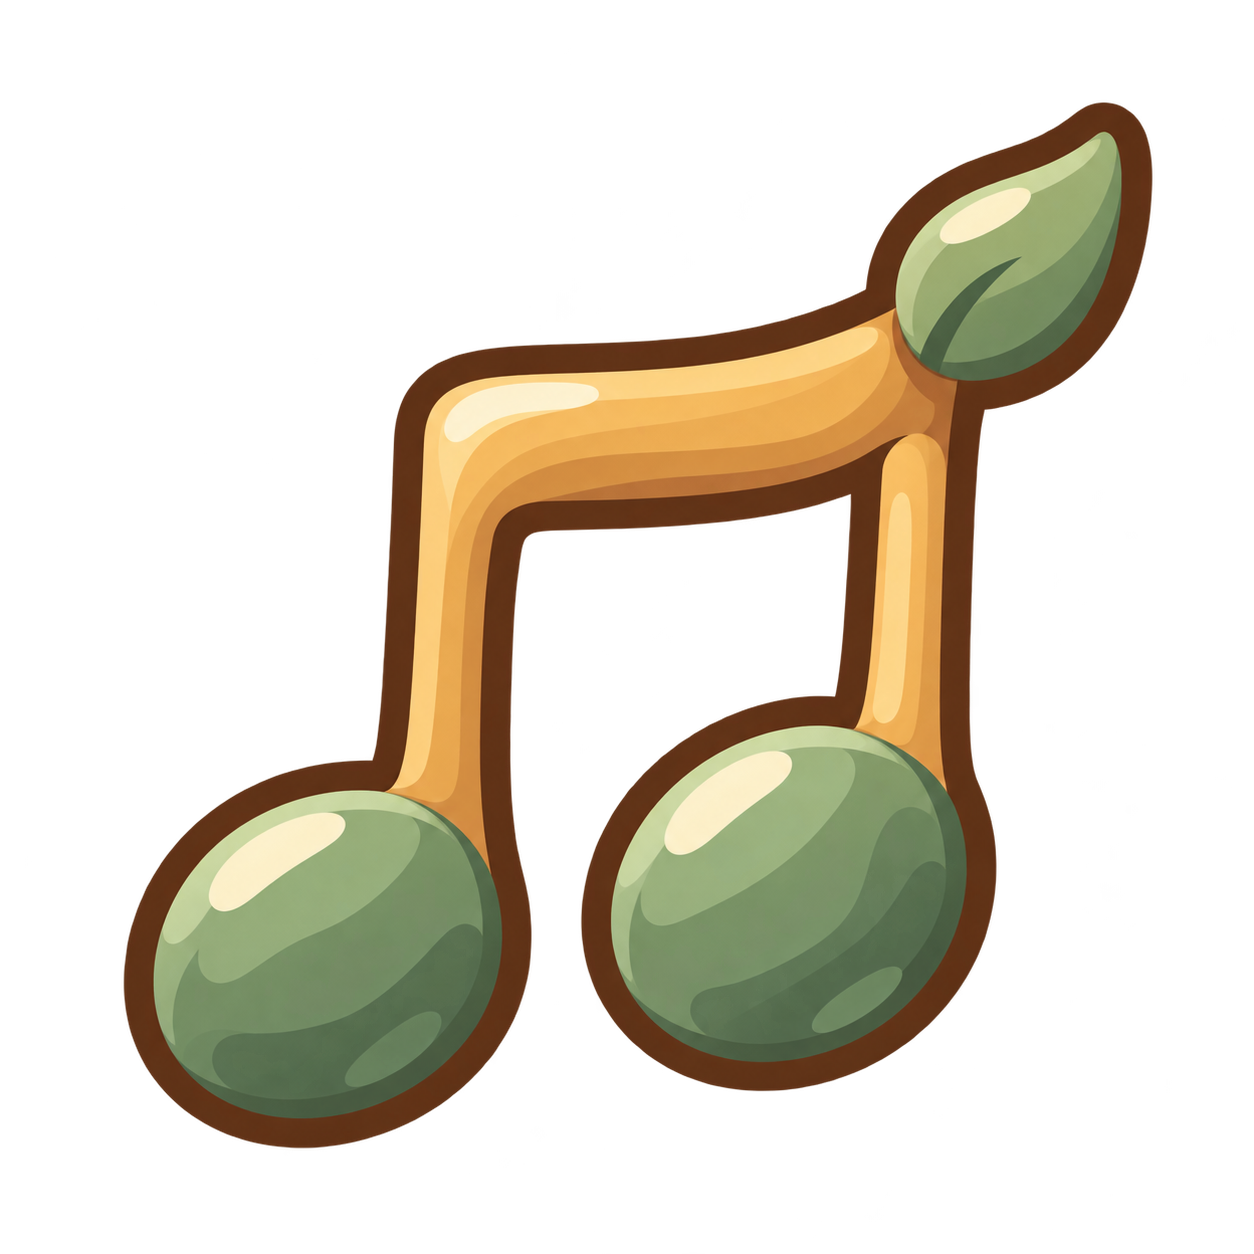
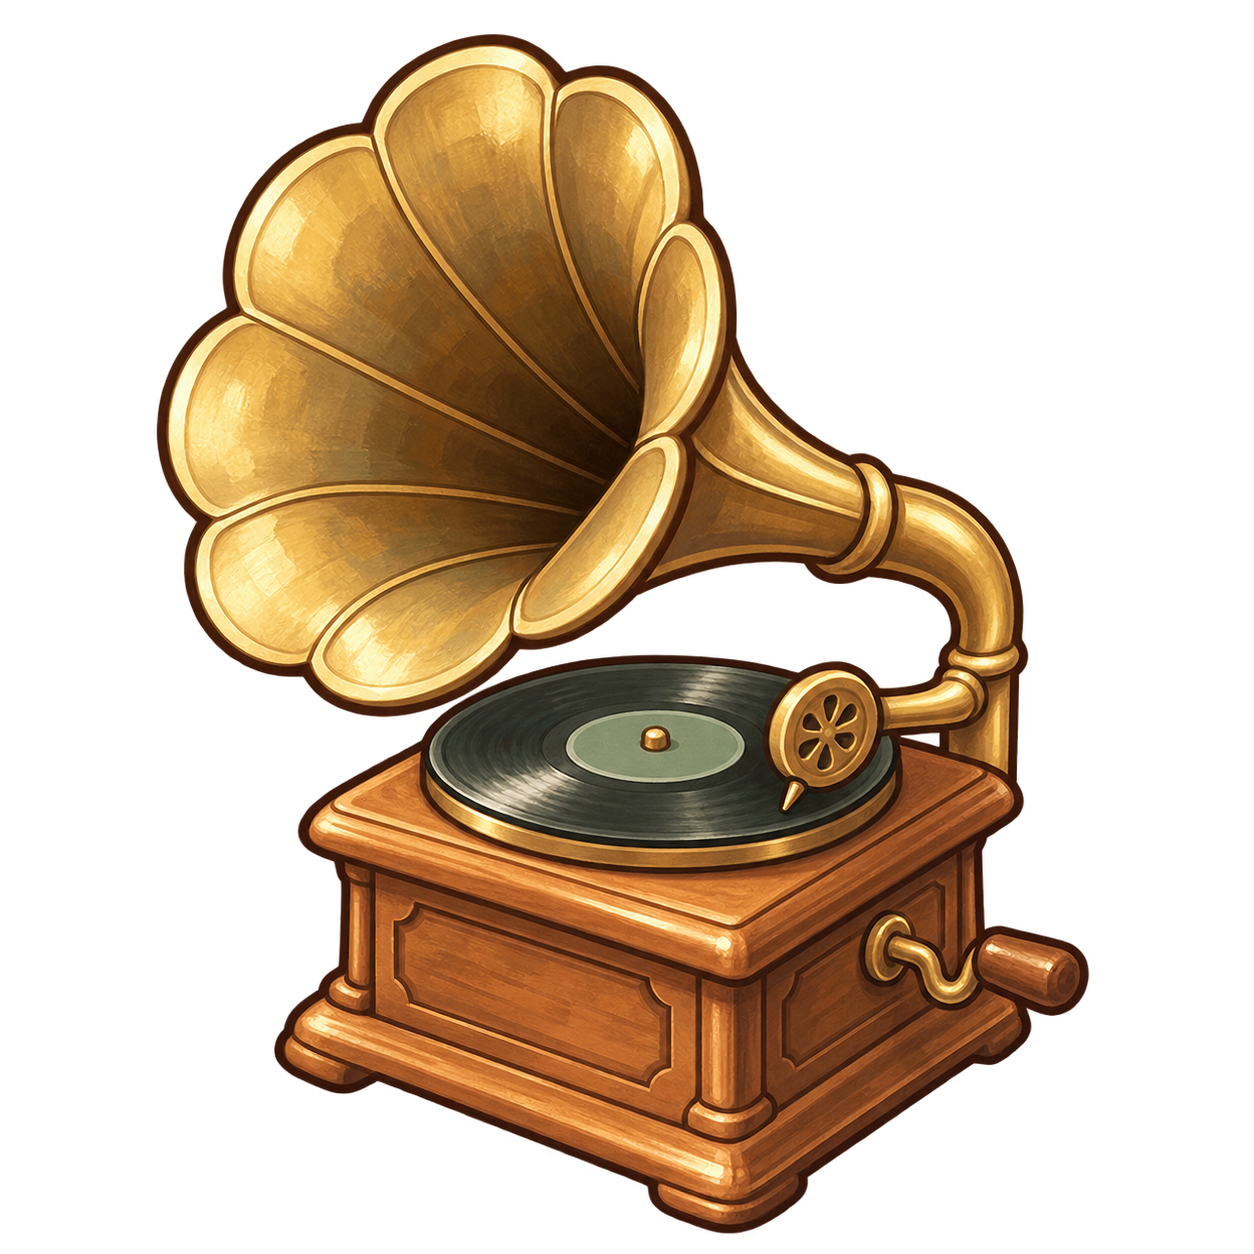
fix: align toolbar and balance gramophone (#332)
* fix: replace Music toolbar note with gramophone

* docs: link gramophone toolbar review candidate

* fix: align toolbar icons and balance gramophone scale

* fix: inset mobile toolbar artwork within buttons

* fix: match mobile gramophone to adjacent artwork

diff --git a/docs/design/music-catalog-config.md b/docs/design/music-catalog-config.md
@@ -290,10 +290,72 @@ The user requests a designed Music image alongside the existing brush, chef,
 pause and gear. An original transparent sage/wood musical-note raster reuses
 those assets as style references; prompt and exact source hash are preserved
 with the existing HUD provenance. The existing HUD texture owner bounds the
-retained texture to320px and crops alpha bounds; the44px native action, tooltip,
+retained texture to 320px and crops alpha bounds; the44px native action, tooltip,
 accessibility name, focus, popup ownership and existing press motion remain.
 Responsive arrangements keep the same Music hit rectangles and render the
 picture inside them. No player-state/save/audio path changes. The generated
 raster and prompt are recoverable; layered GUI/vector authoring is unavailable
 for this generated source and no new Golden approval is claimed. Actual native
 normal-scale toolbar inspection and focused responsive checks remain pending.
+# Gramophone toolbar candidate (2026-10-16)
+
+The user rejected the paired musical-note Music entry and explicitly requested a
+gramophone. This scoped candidate replaces only the toolbar raster and its alpha
+crop, using an original brass-horn, vinyl-record and wooden-cabinet illustration.
+The inspected existing Decorate/Settings art informed the style. The successful
+built-in generation used a text prompt, retained beside the unchanged generated
+RGBA source; it is not a layered editable illustration or a new Golden Reference.
+
+The existing native Music button, tooltip, accessible name, input, focus/press
+feedback, retained texture loading and panel behavior remain. Source
+resolution stays 1254x1254, and the same loader limits the cached texture to 320px;
+there is no new frame callback, animation, resource owner or invalidation path.
+This is an intentional appearance change awaiting the user's actual game-pixel
+acceptance. Desktop/mobile-size paired fixture captures and narrow toolbar checks
+are recorded in the candidate PR; native emulated touch does not qualify a phone
+browser, performance or release. Hat/steam reference work remains separate.
+
+The user subsequently requested balanced icon proportions, vertical centering
+and equal spacing across the toolbar. The revised candidate keeps the same
+generated gramophone PNG and tight alpha crop. It draws the gramophone at44px
+height on the desktop rail,30px on phone layouts, and uses
+the same retained material treatment as Decorate/Staff/Settings. This replaces
+the earlier32px square fit and stronger lightening that reduced its visible
+width and weight. It adds no texture, material variant or frame callback.
+
+Desktop actions share a painted centerline and equal18px gaps (8px at the
+compact breakpoint), including both sides of Pause and Music-to-Decorate. Phone
+actions use equal44x44 native cells and6px gaps; wrapped rows retain aligned
+columns. Original asset aspects,44px minimum targets, focus order and actions
+remain. Actual pixels and existing responsive/input suites must confirm this
+candidate; numeric geometry alone does not establish visual acceptance.
+
+PR330 at09bbd6d4 owns Settings UID footer/clipboard changes in
+`cafe_compact_ui.gd`, `cafe_cloud_settings.gd` and the Web adapter. This candidate
+changes the separate `cafe_hud.gd` layout and its existing layout tests. The
+shared Roadmap receives only the scoped status update; no PR330 runtime delta
+is copied, changed or claimed integrated.
+
+Mobile button-padding refinement: the user requested a little more space
+between artwork and button edges. Phone artwork now fits30px for brush/gear,
+30px high for the chef and gramophone. The latest user request explicitly
+aligns the gramophone with the two adjacent illustrations, not just their frames.
+Every illustrated action now has at least7px internal clearance while retaining
+native aspect,44px hit cells,6px gaps and the existing centerline. The already
+inset Pause glyph and wallet coin retain their spacing. The desktop path and
+its44px gramophone remain unchanged; actual paired desktop pixels verify this.
+
+The actual390x844 rendered button comparison isolates foreground art against
+the same buttons with only their artwork hidden. At a summed RGB-difference
+threshold of12, visible gramophone/brush/chef bounds are23x30,30x25 and22x30
+pixels, with529,536 and475 visible pixels. Gramophone contrast-weighted area
+is157.110 versus161.237 for the brush; the cream chef is naturally lighter.
+These are descriptive comparison measurements, not new numeric art standards
+or user acceptance. Equal44px frames,6px gaps and vertical centers remain.
+
+A separate302e77d baseline versus f262331 candidate capture used the identical
+original harness with verbose logging. Both exit0 with no ObjectDB warning;
+the retained nonverbose candidate capture still reports the intermittent exit
+warning. That one matched pair does not establish either a pre-existing leak
+or a PR332-introduced leak. No production teardown change is made without
+candidate-cause evidence; the diagnostic limit remains explicit.

diff --git a/docs/roadmap.md b/docs/roadmap.md
@@ -13,6 +13,8 @@
 
 ### Current state and ownership
 
+Music toolbar gramophone (0.1.11, 2026-10-16), [Draft PR332](https://github.com/yiyousiow000814/little-leaf/pull/332): replaces the rejected note with an original gramophone. The latest mobile fit matches the adjacent brush/chef artwork, preserving equal44px cells,6px gaps and centers; native input checks pass and fresh desktop PNGs remain byte-identical. Earlier f262331 mobile checks (4,240) and036c23d HUD layout (574) /icon-scale (68) checks retain their exact-source scope. A matched verbose pre-PR/candidate teardown pair does not reproduce the intermittent ObjectDB exit warning, so its cause remains unproved. User visual acceptance, exact new-head CI and release remain pending. See [the Music design record](design/music-catalog-config.md#gramophone-toolbar-candidate-2026-10-16). No merge, tag or deployment.
+
 Cloud-save scheduling candidate (0.1.11, 2026-10-16): the user reports slow cloud saves. From deployed-source base `6014dce830323e8bc26858cee5498285eeca53a2`, the scoped candidate changes only the existing browser sync check from30seconds to1second. The adapter's30-second minimum between attempts, Godot's5-second durable-save cadence, ownership renewal, CAS/epoch fences, journal ACK and saved-state semantics remain unchanged. This UI/UX/QA fix reuses the existing interval/client rather than adding an upload path or timer owner; each ineligible check exits before I/O, with one cheap check/second and no additional retained resources. Art, audio, living-world and gameplay rules are unaffected. Existing actual Chromium154/real disposable IndexedDB checks pass155assertions using synthetic cloud/controlled clocks: after a commit5seconds after the prior upload, timer phases1/999/15000/29999ms change pending elapsed from54.999/54.001/40/25.001seconds to25.999/25.001/25/25.001seconds. These isolate scheduling delay; they do not measure Firebase network latency or certify background timer deadlines. Boot-timer, adapter, delayed-network, session and frozen-handoff contracts pass. The existing Godot4.6.3 recovery test passes1051checks including timeout-without-ACK remaining paused followed by late-ACK automatic continuation; no automatic force takeover is introduced. A failed automatic finish's one-shot native latch remains a separate unproved failure mode; no generic permission-denial retry is added. PR328 exact-head CI38832143979 passed all13 mandatory jobs. On2026-10-16 the user explicitly authorized merging PR327/328 using existing code review and tests, with actual experience acceptance deferred until the unified deployment. The current composition retains PR327; combined-source qualification and merge remain pending. Deployment remains paused until all20 requested items are complete. No original player save or production service was accessed.
 
 Settings Help follow-up (0.1.11 candidate): ordinary cloud-save `pending` is included in the recovery snapshot’s `busy` flag, which previously hid the tutorial entries. The scoped candidate retains their visible position during ordinary saving while preserving temporary disabling until settlement, and still hides them during genuine save recovery or ownership pause. Focused cloud-recovery and stats checks pass (1,128 assertions); source-bound native captures cover desktop, portrait and short landscape with a synthetic profile. PR327 merged as `7601e74b261612c8e6a15773d0a6c2db9fd88ea8` after CI38831762617 passed all13 mandatory jobs and the user explicitly deferred actual experience acceptance until the unified deployment. Acceptance and deployment remain pending. The reported roughly50px gap below Show stats was not reproduced: these captures measure the existing8px row-to-instructions gap; its original cropped reference remains unmatched.
